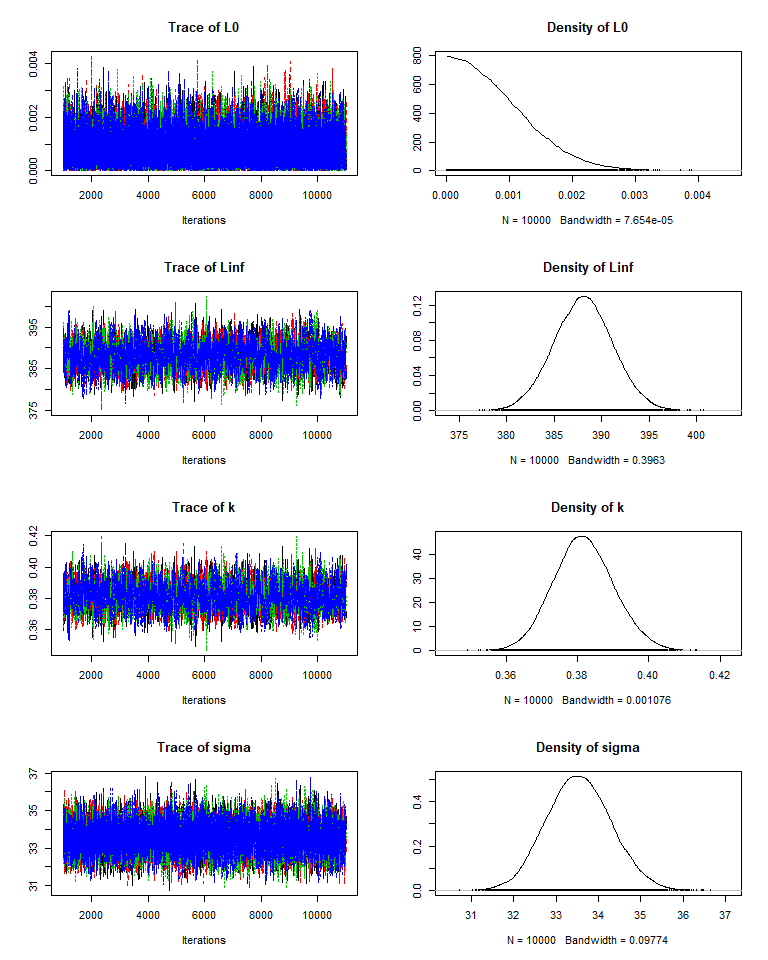
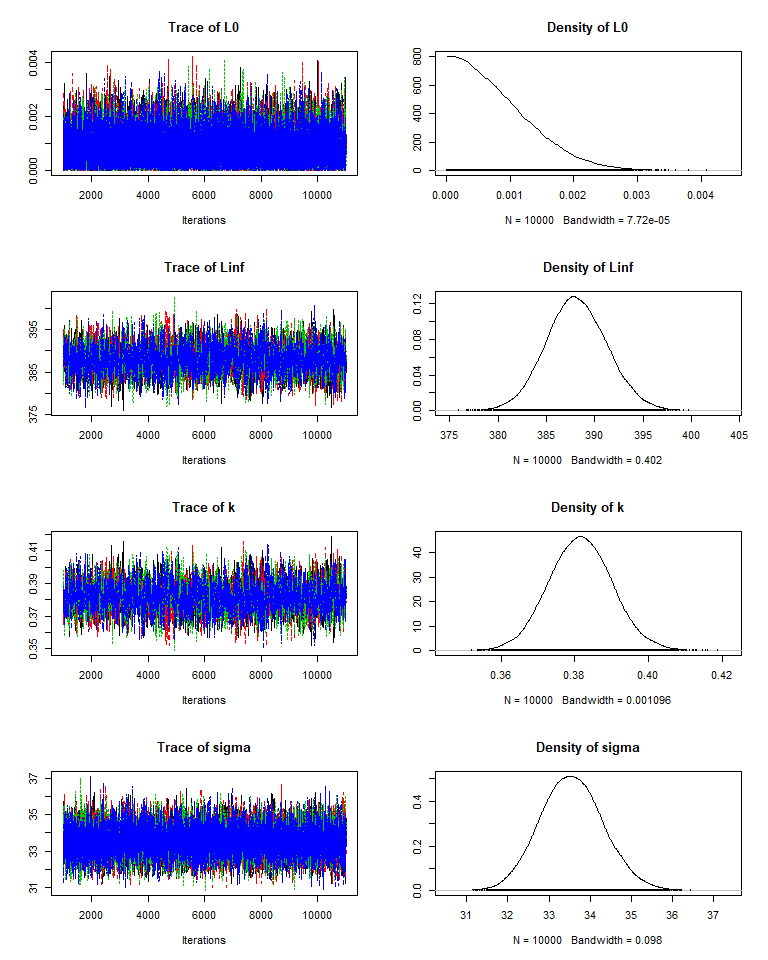
Installation instructions for JAGS added to README

diff --git a/README.md b/README.md
@@ -13,6 +13,8 @@ The user can therefore run an MCMC growth model using knowledge of species lengt
 Installation
 ------------
 
+This package provides a series of wrapper functions to the rjags package which will run JAGS ("Just Another Gibbs Sampler") MCMC models. Therefore, *JAGS must be installed before this package is installed*. To install JAGS, visit: <https://sourceforge.net/projects/mcmc-jags/files/>
+
 You can install the released version of BayesGrowth from [Github](https://github.com/jonathansmart/BayesGrowth) with:
 
 ``` r
@@ -55,13 +57,13 @@ head(results)
 #> End = 1007 
 #> Thinning interval = 1 
 #>                L0     Linf         k    sigma
-#> [1,] 0.0011362422 387.4152 0.3771745 32.44822
-#> [2,] 0.0012851324 389.6609 0.3810249 33.54602
-#> [3,] 0.0012766798 388.7905 0.3786024 32.93662
-#> [4,] 0.0022177229 387.0827 0.3826207 32.91881
-#> [5,] 0.0015071031 388.8557 0.3772496 33.49930
-#> [6,] 0.0009526393 391.2597 0.3777370 34.41613
-#> [7,] 0.0012553141 389.1270 0.3811567 32.72085
+#> [1,] 0.0007140421 389.2083 0.3812362 33.88953
+#> [2,] 0.0009684128 388.0148 0.3774248 33.74464
+#> [3,] 0.0000225300 389.3610 0.3833927 33.02893
+#> [4,] 0.0003189595 385.8569 0.3813557 33.42119
+#> [5,] 0.0001301606 387.0420 0.3821805 33.38645
+#> [6,] 0.0008697618 387.2100 0.3810786 34.72908
+#> [7,] 0.0001933690 389.9525 0.3807542 32.30058
 #> 
 #> [[2]]
 #> Markov Chain Monte Carlo (MCMC) output:
@@ -69,13 +71,13 @@ head(results)
 #> End = 1007 
 #> Thinning interval = 1 
 #>                L0     Linf         k    sigma
-#> [1,] 2.986966e-04 389.8056 0.3783192 34.45930
-#> [2,] 1.108920e-03 389.9971 0.3773260 32.86083
-#> [3,] 1.149033e-03 389.0830 0.3743957 34.59777
-#> [4,] 8.846419e-05 389.4341 0.3771916 35.02175
-#> [5,] 1.459741e-03 390.0453 0.3765467 34.02243
-#> [6,] 1.198310e-04 392.7283 0.3764674 32.81283
-#> [7,] 1.247474e-03 390.0569 0.3750319 34.01624
+#> [1,] 0.0009373289 388.8947 0.3742611 33.74613
+#> [2,] 0.0006973102 390.0837 0.3778313 33.04571
+#> [3,] 0.0019347654 390.5374 0.3731896 32.99147
+#> [4,] 0.0009321508 392.9994 0.3666824 33.76493
+#> [5,] 0.0001182634 393.4887 0.3645631 34.17591
+#> [6,] 0.0013784802 395.0423 0.3648289 33.78332
+#> [7,] 0.0019840112 393.2772 0.3741709 33.88302
 #> 
 #> [[3]]
 #> Markov Chain Monte Carlo (MCMC) output:
@@ -83,13 +85,13 @@ head(results)
 #> End = 1007 
 #> Thinning interval = 1 
 #>                L0     Linf         k    sigma
-#> [1,] 7.018600e-04 388.4735 0.3803604 34.02299
-#> [2,] 7.328129e-04 388.4767 0.3838719 33.72152
-#> [3,] 3.872719e-05 389.2014 0.3836277 34.93259
-#> [4,] 1.597879e-03 387.6074 0.3748780 33.26182
-#> [5,] 7.664179e-04 391.8217 0.3690863 33.78315
-#> [6,] 1.067234e-03 392.8400 0.3649841 33.69626
-#> [7,] 1.468738e-03 394.7917 0.3664152 35.11650
+#> [1,] 1.524884e-03 382.0567 0.3973708 32.04994
+#> [2,] 3.744324e-04 383.6138 0.3974500 32.37718
+#> [3,] 1.855561e-03 382.7780 0.3979980 32.60266
+#> [4,] 6.220523e-05 382.1310 0.3978527 32.35666
+#> [5,] 4.363249e-04 383.0975 0.3899973 33.08628
+#> [6,] 5.341089e-04 385.7289 0.3898472 33.88497
+#> [7,] 7.557750e-04 385.3176 0.3869741 33.16633
 #> 
 #> [[4]]
 #> Markov Chain Monte Carlo (MCMC) output:
@@ -97,13 +99,13 @@ head(results)
 #> End = 1007 
 #> Thinning interval = 1 
 #>                L0     Linf         k    sigma
-#> [1,] 1.142753e-04 388.7777 0.3780411 34.41068
-#> [2,] 2.197816e-03 390.4408 0.3786947 33.66061
-#> [3,] 7.531225e-04 389.8295 0.3760780 33.86406
-#> [4,] 1.592930e-03 389.5038 0.3806576 33.07130
-#> [5,] 3.549027e-04 387.4518 0.3837339 33.02240
-#> [6,] 5.531342e-04 385.5357 0.3859826 33.01245
-#> [7,] 7.466418e-05 387.0289 0.3859786 33.07052
+#> [1,] 1.589315e-03 387.0945 0.3808870 33.14831
+#> [2,] 1.094638e-03 386.6254 0.3860141 33.50220
+#> [3,] 4.755118e-04 388.3166 0.3865569 32.66871
+#> [4,] 5.591126e-05 386.3635 0.3879419 33.04041
+#> [5,] 3.037665e-04 386.4624 0.3811012 33.92760
+#> [6,] 1.787088e-04 387.6920 0.3800311 31.29473
+#> [7,] 8.820132e-05 388.4971 0.3803537 31.60521
 #> 
 #> attr(,"class")
 #> [1] "mcmc.list"
@@ -123,18 +125,18 @@ summary(results)
 #>    plus standard error of the mean:
 #> 
 #>            Mean        SD  Naive SE Time-series SE
-#> L0    7.971e-04 0.0006012 3.006e-06      3.041e-06
-#> Linf  3.881e+02 3.1124334 1.556e-02      5.992e-02
-#> k     3.818e-01 0.0084678 4.234e-05      1.646e-04
-#> sigma 3.355e+01 0.7676419 3.838e-03      7.007e-03
+#> L0    7.980e-04 0.0006064 3.032e-06      3.017e-06
+#> Linf  3.881e+02 3.1672541 1.584e-02      6.144e-02
+#> k     3.816e-01 0.0086143 4.307e-05      1.680e-04
+#> sigma 3.355e+01 0.7696899 3.848e-03      7.130e-03
 #> 
 #> 2. Quantiles for each variable:
 #> 
 #>            2.5%       25%       50%       75%     97.5%
-#> L0    3.148e-05 3.195e-04 6.763e-04 1.148e-03 2.234e-03
-#> Linf  3.820e+02 3.860e+02 3.881e+02 3.901e+02 3.942e+02
-#> k     3.656e-01 3.760e-01 3.816e-01 3.874e-01 3.989e-01
-#> sigma 3.209e+01 3.302e+01 3.353e+01 3.406e+01 3.508e+01
+#> L0    3.149e-05 3.145e-04 6.732e-04 1.151e-03 2.254e-03
+#> Linf  3.820e+02 3.860e+02 3.881e+02 3.902e+02 3.945e+02
+#> k     3.648e-01 3.758e-01 3.816e-01 3.873e-01 3.989e-01
+#> sigma 3.210e+01 3.303e+01 3.354e+01 3.406e+01 3.512e+01
 plot(results,density = T, smooth = F)
 ```
 
